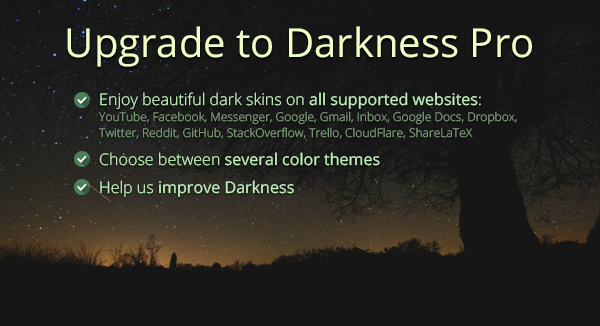
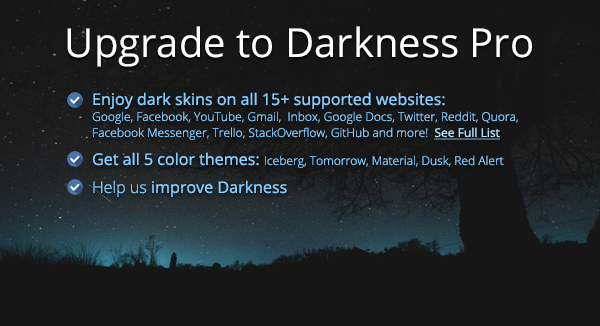
Updated dialogs

diff --git a/chrome-extension/style/settings.scss b/chrome-extension/style/settings.scss
@@ -636,39 +636,15 @@ div.drk_dialog.drk_get_pro.sku-1 {
 }
 
 div.drk_dialog.drk_get_pro.sku-2 {
-	div.drk_dialog_inner {
-		box-shadow: 1px 3px 0px rgba(0, 0, 0, 0.8), 0 0 100px rgba(255, 230, 225, 0.5), 0 0 10px rgba(255, 230, 225, 0.2) !important;
-	}
 	.drk_content {
 		background: Transparent url("chrome-extension://__MSG_@@extension_id__/images/upgrade-dialog-2.png") no-repeat center !important;
 	}
-	.drk_button_dialog {
-		background: linear-gradient(180deg, #cf0010 30%, #87000a 110%) !important;
-		.upg_btn1 {
-			font-weight: 600 !important;
-    		letter-spacing: -1px !important;
-		}
-		.upg_btn2 {
-			color: #e5adae !important;
-		}
-		&:hover {
-			background: linear-gradient(180deg, #cf0010 30%, #87000a 110%) !important;
-		}
-	}
-
-	.drk_promo_link, .drk_promo_caption, .drk_hide_link {
-		color: #60a5e0 !important;
-	}
-	.drk_promo_link:hover, .drk_promo_caption:hover, .drk_hide_link:hover {
-		color: #70b0ff !important;
-	}
-
 }
 
 div.drk_dialog.drk_get_pro {
 	div.drk_dialog_inner {
 		border-radius: 7px !important;
-		box-shadow: 0 3px 4px rgba(0, 0, 0, 0.35), 0 0 200px rgba(249, 255, 233, 0.7), 0 0 10px rgba(249, 255, 233, 0.2) !important;
+		box-shadow: 1px 3px 0px rgba(0, 0, 0, 0.8), 0 0 100px rgba(255, 230, 225, 0.5), 0 0 10px rgba(255, 230, 225, 0.2) !important;
 		background: Black !important;
 	}
 	span.drk_close {
@@ -703,23 +679,32 @@ div.drk_dialog.drk_get_pro {
 		border-radius: 4px !important;
 	}
 
+	.drk_show_feature_comparison {
+		position: absolute !important;
+		top: 120px !important;
+		left: 430px !important;
+		width: 80px !important;
+		height: 24px !important;
+		cursor: pointer !important;
+	}
 	.drk_button_dialog {
-		background: linear-gradient(180deg, #357865 30%, #30604f) !important;
+        background: linear-gradient(180deg, #cf0010 30%, #87000a 110%) !important;
 		box-shadow: 0 3px 4px rgba(0, 0, 0, 0.2) !important;
 		border-radius: 4px !important;
 		width: 244px !important;
 		transition: all .2s ease-in-out !important;
 		opacity: 0.9 !important;
 		margin: 0 !important;
+
 		.upg_btn1 {
 			font-size: 32px !important;
 			text-align: center !important;
-			font-weight: 400 !important;
+			font-weight: 600 !important;
+    		letter-spacing: -1px !important;
 			color: #fff !important;
 			cursor: pointer !important;
 			padding: 5px 0 7px !important;
 			-webkit-font-smoothing: antialiased;
-			letter-spacing: -0.5px !important;
 			text-shadow: 0 1px 2px rgba(0, 0, 0, 0.2) !important;
 		}
 		.upg_btn2 {
@@ -728,24 +713,28 @@ div.drk_dialog.drk_get_pro {
 			font-weight: 400 !important;
 			letter-spacing: -0.2px !important;
 			-webkit-font-smoothing: antialiased;
-			color: #cbffc6 !important;
+			color: #e5adae !important;
 			padding: 3px 0 0 !important;
 			cursor: pointer !important;
 			text-shadow: 0 1px 2px rgba(0, 0, 0, 0.2) !important;
 		}
 		&:hover {
-			background: linear-gradient(180deg, #357865 30%, #30604f) !important;
+			background: linear-gradient(180deg, #cf0010 30%, #87000a 110%) !important;
 			opacity: 1 !important;
 			transition: all .1s ease-in-out !important;
 			box-shadow: 0 4px 5px rgba(0, 0, 0, 1) !important;
 		}
 	}
 
+	.drk_promo_link:hover, .drk_promo_caption:hover, .drk_hide_link:hover {
+		color: #70b0ff !important;
+	}
+
 	.drk_promo_link, .drk_promo_caption, .drk_hide_link {
 		font-size: 11px !important;
 		font-weight: 400 !important;
 		position: absolute !important;
-		color: #357865 !important;
+		color: #60a5e0 !important;
 	}
 
 	.drk_promo_link {
@@ -755,7 +744,7 @@ div.drk_dialog.drk_get_pro {
 		transition: color .2s ease-in-out !important;
 		padding: 4px 10px !important;
 		&:hover {
-			color: #559885 !important;
+			color: #70b0ff !important;
 			transition: color .0s ease-in-out !important;
 		}
 		display: none !important;
@@ -771,7 +760,7 @@ div.drk_dialog.drk_get_pro {
 		transition: color .2s ease-in-out !important;
 		padding: 4px 10px !important;
 		&:hover {
-			color: #559885 !important;
+			color: #70b0ff !important;
 			transition: color .0s ease-in-out !important;
 		}
 		display: block !important;
@@ -789,7 +778,7 @@ div.drk_dialog.drk_get_pro {
 		right: 15px !important;
 		width: 120px !important;
 		text-align: center !important;
-		color: #459078 !important;
+		color: #70b0ff !important;
 		font-size: 12px !important;
 		line-height: 1.3em !important;
 	}
@@ -819,17 +808,17 @@ div.drk_dialog.drk_get_pro {
 		font-size: 12px !important;
 		margin: 0 !important;
 		line-height: 18px !important;
-		color: #cbffc6 !important;
+		color: #fff !important;
 		font-family: 'Open Sans' !important;
 		font-weight: 200 !important;
-		background: linear-gradient(180deg, #357865 30%, #30604f) !important;
+        background: linear-gradient(180deg, #cf0010 0%, #87000a 150%) !important;
 		box-shadow: 0 3px 4px rgba(0, 0, 0, 0.2) !important;
 		border-radius: 3px !important;
 		border: none !important;
 		cursor: pointer !important;
 		opacity: 0.9 !important;
 		&:hover {
-			background: linear-gradient(180deg, #357865 30%, #30604f) !important;
+			background: linear-gradient(180deg, #cf0010 0%, #87000a 150%) !important;
 			opacity: 1 !important;
 			transition: all .1s ease-in-out !important;
 			box-shadow: 0 4px 5px rgba(0, 0, 0, 1) !important;

diff --git a/chrome-extension/html/settings.html b/chrome-extension/html/settings.html
@@ -187,6 +187,7 @@
 		<div class="drk_dialog_inner">
 			<span class="drk_close"><a class="drk_icon drk_icon_close drk_dialog_close" href="javascript:void(0);"><i class="drk_icon icon-cancel"></i></a></span>
 			<div class="drk_content drk_sale">
+				<div class="drk_show_feature_comparison"></div>
 				<div class="drk_button_dialog_wrapper">
 					<div class="drk_button_dialog drk_inline drk_bold drk_buy_life">
 						<div class="upg_btn1">Upgrade now</div>
@@ -208,7 +209,7 @@
 					<input class="drk_promo_input" type="text"/>
 					<input class="drk_promo_submit" value="Send" type="button"/>
 				</div>
-				<div class="drk_hide_link">Let me see</div>
+				<div class="drk_hide_link">Hide dialog</div>
 			</div>
 		</div>
 	</div>
@@ -218,6 +219,7 @@
 		<div class="drk_dialog_inner">
 			<span class="drk_close"><a class="drk_icon drk_icon_close drk_dialog_close" href="javascript:void(0);"><i class="drk_icon icon-cancel"></i></a></span>
 			<div class="drk_content drk_sale">
+				<div class="drk_show_feature_comparison"></div>
 				<div class="drk_button_dialog_wrapper">
 					<div class="drk_button_dialog drk_inline drk_bold drk_buy_life">
 						<div class="upg_btn1">Upgrade now</div>
@@ -239,7 +241,7 @@
 					<input class="drk_promo_input" type="text"/>
 					<input class="drk_promo_submit" value="Send" type="button"/>
 				</div>
-				<div class="drk_hide_link">Let me see</div>
+				<div class="drk_hide_link">Hide dialog</div>
 			</div>
 		</div>
 	</div>

diff --git a/chrome-extension/js/settings.js b/chrome-extension/js/settings.js
@@ -793,6 +793,11 @@ if (!DarknessSettingsLoader) {
 				// Trigger purchase dialog
 				buyClick();
 			});
+			// Upgrade dialog -> Got promo?
+			$('.drk_show_feature_comparison').unbind('click').click(function(e) {
+				var url = "http://lifehacklabs.org/darkness/pro";
+				var win = window.open(url, '_blank');
+			});
 
 			// Upgrade dialog -> Got promo?
 			$('.drk_promo_link').unbind('click').click(function(e) {
@@ -800,7 +805,6 @@ if (!DarknessSettingsLoader) {
 				$('.drk_promo_form').addClass('visible');
 				$('.drk_promo_input').focus();
 			});
-
 
 			// Hide link
 			$('.drk_hide_link').unbind('click').click(function(e) {
